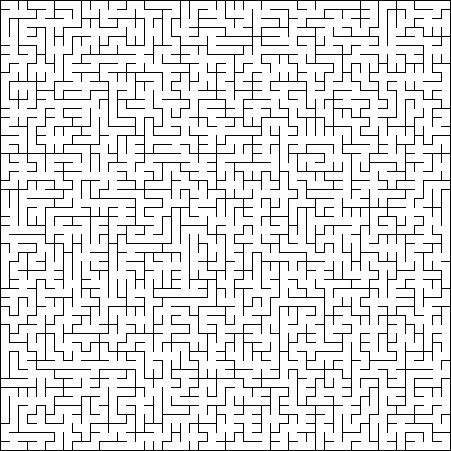
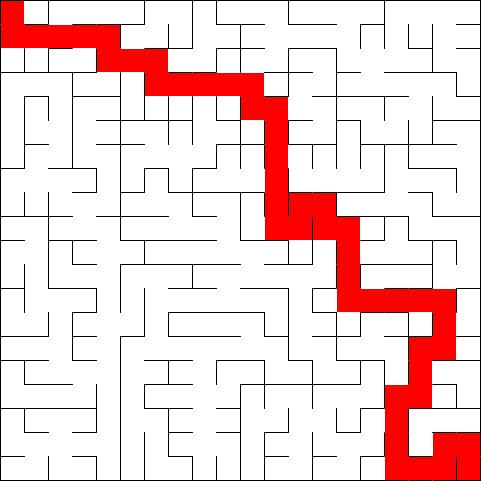
Added the ability to solve maze and plot the solution
Only breadth first solver is finished. In the future maybe create gifs
of the different types of algorithms solving the maze.

Changed region(s): [[0.0, 0.0, 1.0, 1.0], [0.4346, 0.9313, 0.4656, 1.0], [0.9933, 0.0, 1.0, 0.031]]

diff --git a/mazePic.py b/mazePic.py
@@ -2,7 +2,7 @@ from PIL import Image
 
 class mazePic:
     def __init__(self,maze):
-        self.wallThickness=1#cant change this yet
+        self.wallThickness=1#cant change this yet everything is written so that it moves correctly but the walls are still only 1 thick
 
         #desired image max(width,height)
         desired=500
@@ -23,6 +23,9 @@ class mazePic:
     def savePic(self,name):
         self.im.save(name+'.jpg', "JPEG")
 
+
+    #----------------------------------------------------
+    #drawing the maze walls
     def drawMaze(self,walls):
         for i in xrange(len(walls)):#vert or horiz
             lwi=len(walls[i])
@@ -33,25 +36,28 @@ class mazePic:
                         self.drawWall((i,j,k))
 
     def drawWall(self,coord):
+        self.coloredWall(coord,(0,0,0))
+
+    def coloredWall(self,coord,color):
         (x1,x2,y1,y2)=self.wallEndPoints(coord)
         if coord[0]==0:
-            self.drawVertLine(x1,y1,y2)
+            self.drawVertLine(x1,y1,y2,color)
         if coord[0]==1:
-            self.drawHorLine(x1,x2,y1)
+            self.drawHorLine(x1,x2,y1,color)
 
-    def drawVertLine(self,x,y1,y2):
+    def drawVertLine(self,x,y1,y2,color):
         dy=abs(y2-y1)
         y=min(y1,y2)
 
         for i in xrange(dy+2):#making this +2 means some lines will overlap but there wont be any white spots
-            self.pix[x,y+i]=(0,0,0)
+            self.pix[x,y+i]=color
         
-    def drawHorLine(self,x1,x2,y):
+    def drawHorLine(self,x1,x2,y,color):
         dx=abs(x2-x1)
         x=min(x1,x2)
 
         for i in xrange(dx+2):
-            self.pix[x+i,y]=(0,0,0)
+            self.pix[x+i,y]=color
 
 
     def wallEndPoints(self,coord):
@@ -67,3 +73,63 @@ class mazePic:
             x2=x1+self.cellSize
 
         return (x1,x2,y1,y2)
+    #-------------------------------------------------------
+
+    #given two cells find the coordinates of the wall between them
+    def findWall(self,pos1,pos2):
+        if pos1==pos2:
+            print 'same point'
+            return None
+        
+        dx=pos1[0]-pos2[0]
+        dy=pos1[1]-pos2[1]
+        if abs(dx)+abs(dy)>1:
+            print 'not connected'
+            return None
+
+        #at this point either (dx=+1 or -1 and dy=0) or (dy=+1 or -1 and dx=0)
+
+        #wall vertical or horizontal?
+        if dx==0:#horizonatal
+            wVorH=1
+
+            x=pos1[0]
+            y=max(pos1[1],pos2[1])
+        if dy==0:#vertical
+            wVorH=0
+
+            x=max(pos1[0],pos2[0])
+            y=pos1[1]
+
+        return (wVorH,x,y)
+
+    #find top left corner of cell (corners are inside the cell not on wall)
+    #cood = (x,y)
+    def corner(self,coord):
+        x=self.wallThickness*(coord[0]+1)+self.cellSize*coord[0]
+        y=self.wallThickness*(coord[1]+1)+self.cellSize*coord[1]
+
+        return (x,y)
+
+    #fill squre with color
+    def fill(self,coord,color):
+        (x,y)=self.corner(coord)
+
+        for i in xrange(self.cellSize):
+            for j in xrange(self.cellSize):
+                self.pix[x+i,y+j]=color
+        
+
+    #color cells in specified color given in RGB format
+    def solution(self,path,color):
+        #path is list of coordinates
+        last=None
+        for cell in path:
+            #need to fill the space between the walls. Assumes path is in order
+            if not last is None:
+                wall=self.findWall(cell,last)
+                self.coloredWall(wall,color)
+            
+            self.fill(cell,color)
+
+            last=cell

diff --git a/mazeSolver.py b/mazeSolver.py
@@ -1,0 +1,94 @@
+
+class mazeSolver:
+    def __init__(self,maze):
+        self.visited=[]
+        self.solution=[]
+        self.maze=maze
+
+    def cellsConnected(self,pos1,pos2):
+        if pos1==pos2:
+            print 'same point'
+            return False
+        
+        dx=pos1[0]-pos2[0]
+        dy=pos1[1]-pos2[1]
+        if abs(dx)+abs(dy)>1:
+            return False
+
+        #at this point either (dx=+1 or -1 and dy=0) or (dy=+1 or -1 and dx=0)
+
+        #wall vertical or horizontal?
+        if dx==0:#horizonatal
+            wVorH=1
+
+            x=pos1[0]
+            y=max(pos1[1],pos2[1])
+        if dy==0:#vertical
+            wVorH=0
+
+            x=max(pos1[0],pos2[0])
+            y=pos1[1]
+
+        return self.maze.walls[wVorH][x][y]==0
+
+    def cellNeighbors(self,cell):#neighbors must be inside maze and not separated by a wall from cell
+        change=[(1,0),(0,1),(-1,0),(0,-1)]
+
+        N=[]
+        for c in change:
+            curr=(cell[0]+c[0],cell[1]+c[1])
+
+            if curr[0]>=0 and curr[1]>=0 and curr[0]<self.maze.width and curr[1]<self.maze.height:
+                if self.cellsConnected(cell,curr):
+                    N.append(curr)
+
+        
+        return N
+
+    def depthFirstSearch(self,start,end):
+        stack=[start]
+        path=[]
+        visited=[start]
+
+        curr=start
+        while len(stack)>0 and curr!=end:
+            curr=stack.pop(-1)
+            
+            stack.extend(self.cellNeighbors(curr))
+            path.append[curr]
+
+            
+            
+
+        
+        
+        return None
+
+    def breadthFirstSearch(self,start,end):
+        queue=[]
+        visited=[]
+
+        #push first path
+        queue.append([start])
+        while len(queue)>0:
+            path=queue.pop(0)
+            curr=path[-1]
+            visited.append(curr)
+
+            if curr==end:
+                self.solution=path
+                self.visited=visited
+                return None
+
+            neigh=self.cellNeighbors(curr)
+            for n in neigh:
+                if not n in visited:
+                    new_path=list(path)
+                    new_path.append(n)
+                    queue.append(new_path)
+
+        #as long as a solution exists this should never run
+        return None
+
+    def aStar(self,start,end):
+        return None

diff --git a/test.py b/test.py
@@ -1,7 +1,22 @@
 from maze import maze
 from mazePic import mazePic
+from mazeSolver import mazeSolver
 
-a=maze(50,50)
+size=20
 
+#create random maze
+a=maze(size,size)
+
+#draw the walls of the maze
 aPic=mazePic(a)
+
+#solve the maze
+solver=mazeSolver(a)
+solver.breadthFirstSearch((0,0),(size-1,size-1))
+
+#color visited spots and solution
+#aPic.listFill(solver.visited,(0,0,255))
+aPic.solution(solver.solution,(255,0,0))
+
+
 aPic.savePic('test')
